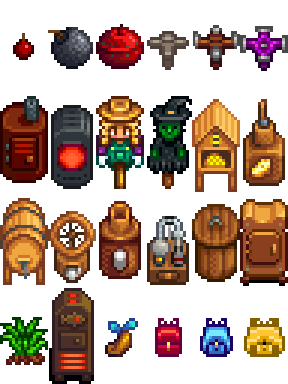
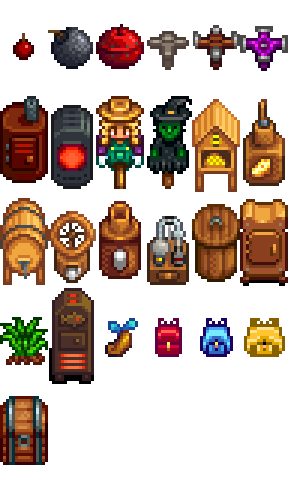
menu bar 2

diff --git a/core/src/main/java/com/CEliconValley/client/view/screen/MenuBar.java b/core/src/main/java/com/CEliconValley/client/view/screen/MenuBar.java
@@ -1,6 +1,9 @@
 package com.CEliconValley.client.view.screen;
 
+import com.CEliconValley.common.InventoryData;
+import com.CEliconValley.common.PlayerData;
 import com.CEliconValley.controllers.ItemManager;
+import com.CEliconValley.models.Player;
 import com.CEliconValley.models.items.*;
 import com.badlogic.gdx.graphics.Texture;
 import com.badlogic.gdx.graphics.g2d.Batch;
@@ -9,9 +12,11 @@ import com.badlogic.gdx.graphics.OrthographicCamera;
 
 public class MenuBar {
     private final Texture menuTexture;
+    private final Texture miniMapTexture;
     private final TextureRegion[] tabTextures;
     private final int tileWidth;
     private final int tileHeight;
+    private Player player;
 
     private int startingRow = 0;
     private float startingX;
@@ -25,7 +30,10 @@ public class MenuBar {
     };
 
     public MenuBar() {
+
         menuTexture = new Texture("game/Buildings/Screen/Menu_Screen.png");
+        miniMapTexture = new Texture("game/Buildings/Screen/map.png");
+
         tileWidth = menuTexture.getWidth() / 3;
         tileHeight = menuTexture.getHeight() / 3;
 
@@ -46,8 +54,12 @@ public class MenuBar {
 
         currentTab = "Inventory";
     }
+    public void setPlayer(Player player) {
+        this.player = player;
+    }
 
-    public void render(Batch batch, OrthographicCamera camera, Inventory inventory) {
+    public void render(Batch batch, OrthographicCamera camera ) {
+        Inventory inventory=player.getInventory();
         startingX = camera.position.x - camera.viewportWidth/2 + (camera.viewportWidth - tileWidth*2)/2;
         startingY = camera.position.y - camera.viewportHeight/2 + (camera.viewportHeight - tileHeight*2)/2;
 
@@ -76,25 +88,33 @@ public class MenuBar {
                 renderMap(batch);
                 break;
         }
+        switch (currentTab){
+            case "Crafting":
+                renderCraftings(batch);
+                break;
+        }
     }
 
 
     private void renderInventoryBar(Batch batch, OrthographicCamera camera, Inventory inventory) {
+
         float firstItemX = (2 * tileWidth * 49) / 856f;
         float firstItemY = (2 * tileHeight * 484) / 648f;
         int row = 0, startPoint = 0;
         float slotSize = tileWidth * 56 * 2 / 856f;
 
         for (int col = 0; row < 3; ) {
-            Slot slot = inventory.getSlots().get(col + (startingRow + row) * 12);
-            Item item = slot.getItem();
-            TextureRegion texture;
-            if (item != null) {
-                texture = ItemManager.getTexture(item);
-                if (texture != null) {
-                    float x = startingX + firstItemX + col * (slotSize + 16);
-                    float y = startingY + firstItemY - row * (slotSize + 47);
-                    batch.draw(texture, x, y, slotSize, slotSize);
+            if(inventory.getBackpack().getSize()>col + (startingRow + row) * 12) {
+                Slot slot = inventory.getSlots().get(col + (startingRow + row) * 12);
+                Item item = slot.getItem();
+                TextureRegion texture;
+                if (item != null) {
+                    texture = ItemManager.getTexture(item);
+                    if (texture != null) {
+                        float x = startingX + firstItemX + col * (slotSize + 16);
+                        float y = startingY + firstItemY - row * (slotSize + 47);
+                        batch.draw(texture, x, y, slotSize, slotSize);
+                    }
                 }
             }
             col++;
@@ -118,11 +138,47 @@ public class MenuBar {
     }
 
     private void renderMap(Batch batch) {
+        batch.draw(miniMapTexture, startingX, startingY, menuTexture.getWidth()/3f, menuTexture.getHeight()/3f);
 
     }
+
     private void renderCraftings(Batch batch) {
-//        for(CraftingRecipe)
+
+        float minX = 50;
+        float maxX = 1650;
+        float minY = 21;
+        float maxY = 272;
+
+        float currentX = minX;
+        float currentY = maxY;
+
+
+
+        for (CraftableMachine machine : CraftableMachine.values()) {
+            TextureRegion texture = ItemManager.getTexture(machine);
+            if (texture == null) continue;
+
+
+
+
+            if (currentX  > maxX) {
+                currentX = minX;
+                currentY -= 192;
+
+
+                if (currentY < minY) break;
+            }
+            if(!player.getCraftingRecipes().contains(machine.getRecipe())){
+                batch.setColor(0.5f,0.5f,0.5f,0.5f);
+            }
+            batch.draw(texture, startingX + currentX, startingY + currentY, 96,192);
+            batch.setColor(1,1,1,1);
+
+
+            currentX +=96+55;
+        }
     }
+
 
     public void dispose() {
         menuTexture.dispose();

diff --git a/core/src/main/java/com/CEliconValley/client/view/screen/GameScreen.java b/core/src/main/java/com/CEliconValley/client/view/screen/GameScreen.java
@@ -6,6 +6,7 @@ import com.CEliconValley.client.view.screen.maps.*;
 import com.CEliconValley.common.CellData;
 import com.CEliconValley.controllers.Spawner.InventoryRenderer;
 import com.CEliconValley.models.Cell;
+import com.CEliconValley.models.Finder;
 import com.CEliconValley.models.Hero;
 import com.CEliconValley.models.buildings.Wall;
 import com.CEliconValley.models.foragings.ForagingTree;
@@ -31,7 +32,6 @@ public abstract class GameScreen implements Screen {
     protected boolean onRepeat = true;
     protected boolean flip = false;
     protected boolean isMenuOpen = false;
-    protected MenuBar menuBar=new MenuBar();
     protected InventoryRenderer inventoryRenderer;
     protected boolean cheatMode = false;
     protected Image overlay;
@@ -39,6 +39,7 @@ public abstract class GameScreen implements Screen {
     protected Stage stage;
     public abstract void transfer();
     protected Hero hero;
+    protected MenuBar menuBar=new MenuBar();
     protected Texture hudTexture = new Texture(Gdx.files.internal("game/Clock/Clock.png"));
     protected Image hudImage;
     protected TimeScreen timeScreen;

diff --git a/core/src/main/java/com/CEliconValley/client/view/screen/FarmScreen.java b/core/src/main/java/com/CEliconValley/client/view/screen/FarmScreen.java
@@ -92,6 +92,7 @@ public class FarmScreen extends GameScreen implements Screen {
     public FarmScreen(Farm farm, Player player) {
         super(new InventoryRenderer(player.getInventory()));
         this.menuBar=super.getMenuBar();
+        menuBar.setPlayer(player);
         otherHeroes = new ArrayList<>();
         this.farmMap = new FarmMap(Finder.getFarmDataById(AppClient.getGameData(), AppClient.getUserData().getUsername()));
         this.farm = farm;
@@ -274,7 +275,7 @@ public class FarmScreen extends GameScreen implements Screen {
         }
             if(isMenuOpen){
 //                menuBar.render(batch, menuX, menuY, menuWidth, menuHeight);
-                menuBar.render(batch,camera,player.getInventory());
+                menuBar.render(batch,camera);
             }else {
                 inventoryRenderer.render(batch, camera);
             }

diff --git a/core/src/main/java/com/CEliconValley/models/Finder.java b/core/src/main/java/com/CEliconValley/models/Finder.java
@@ -1,5 +1,6 @@
 package com.CEliconValley.models;
 
+import com.CEliconValley.client.AppClient;
 import com.CEliconValley.client.view.screen.maps.CoopMap;
 import com.CEliconValley.common.CellData;
 import com.CEliconValley.common.FarmData;
@@ -235,6 +236,14 @@ public class Finder {
         }
         return null;
     }
+    public static PlayerData findPlayerDataByUsername(String username){
+        for(PlayerData player : AppClient.getGameData().getPlayersData()){
+            if(player.getPlayer().getUser()!=null&&player.getPlayer().getUser().getUsername().equals(username)){
+                return player;
+            }
+        }
+        return null;
+    }//todo , بالایی نال میده
     public static NPC parseNPC(String name){
         for(NPC npc:App.getGame().getVillage().getNPCs()){
             if(npc.getName().equalsIgnoreCase(name)){
